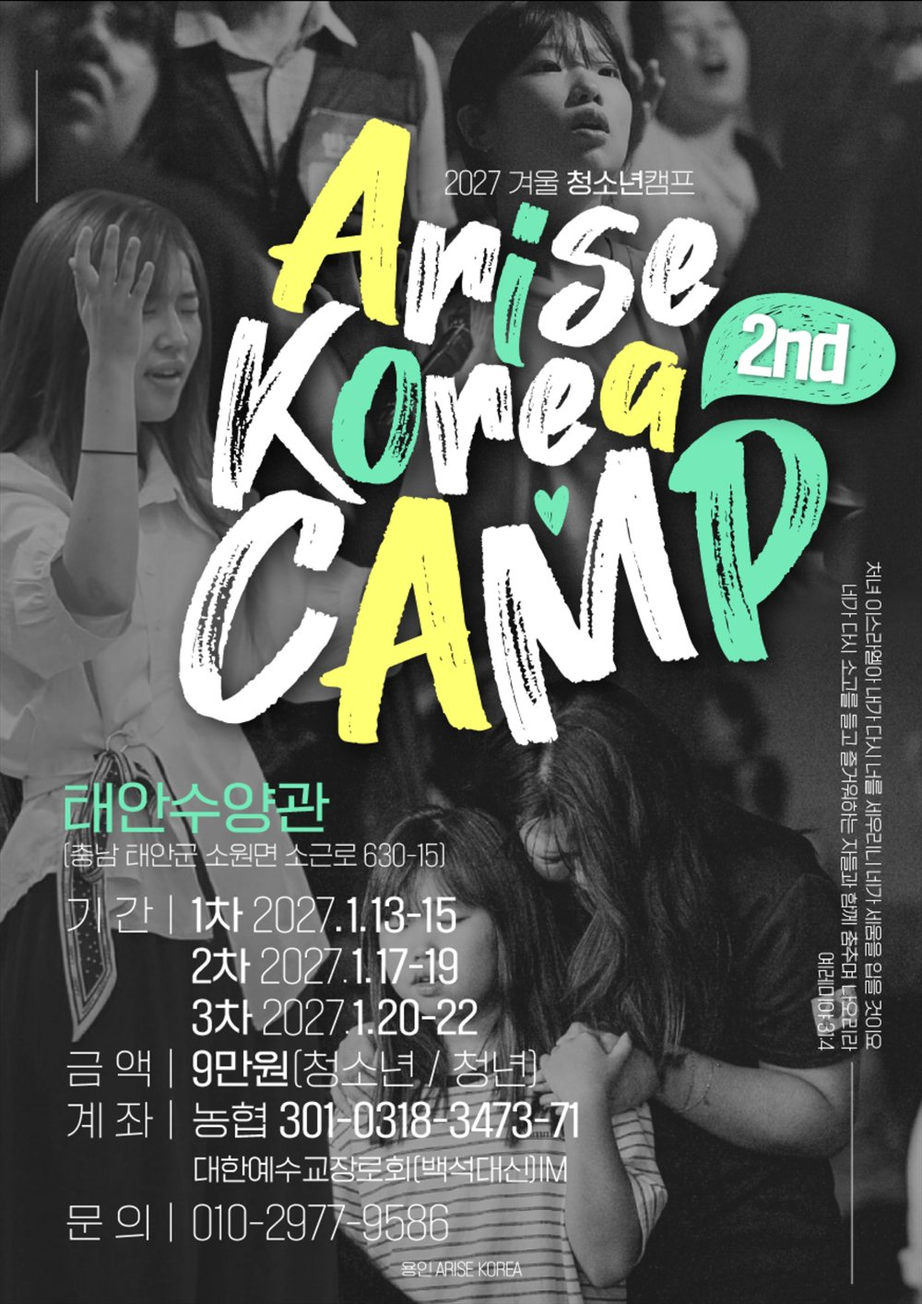
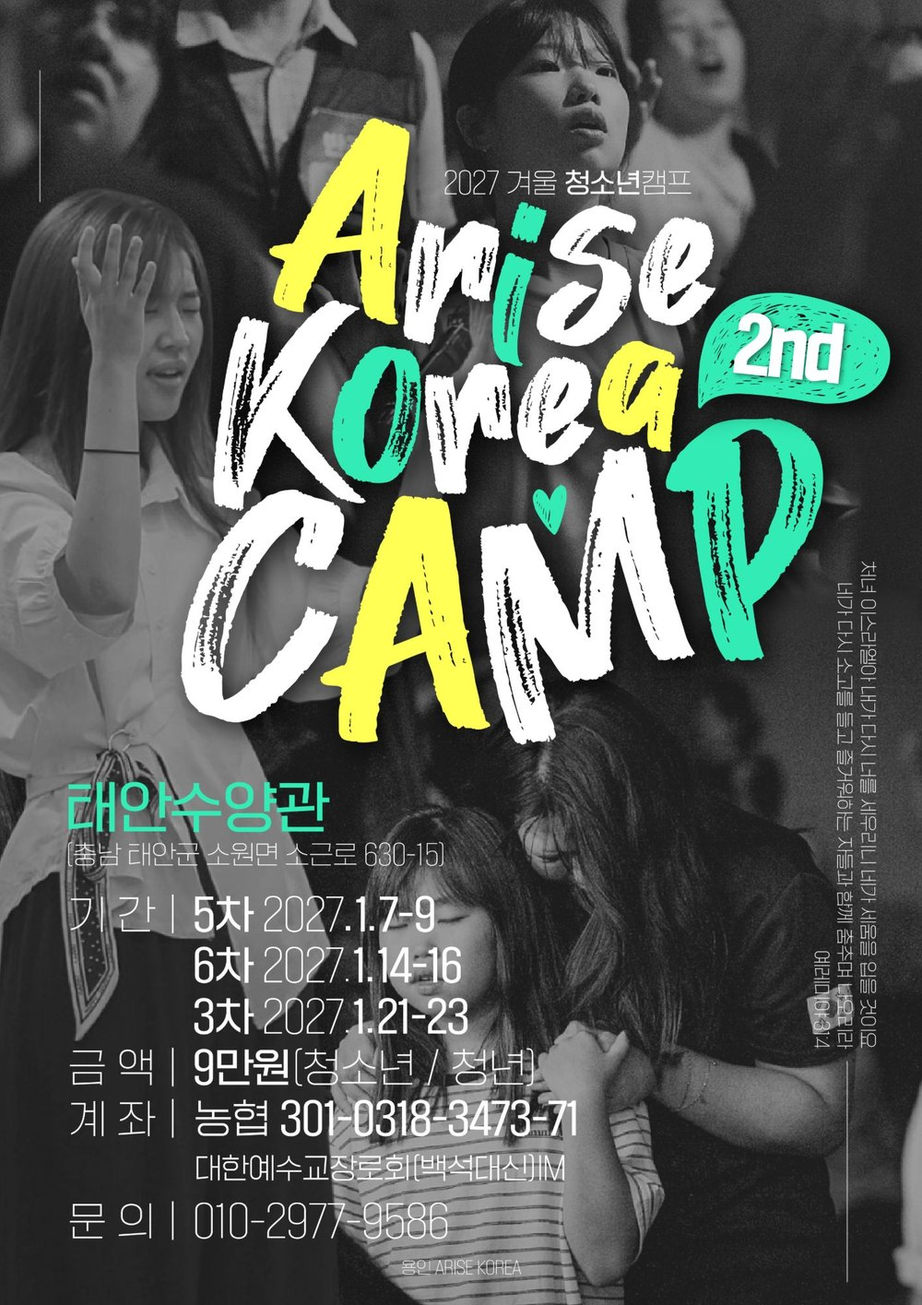
캠프 일정 변경 + 메인 프로그램 3가지 변경 반영
- 일정 변경: 5차 1. 7~9 · 6차 1. 14~16 · 7차 1. 21~23 (모두 목~토)
  - 메인 · 캠프 페이지 4곳 · 공지 · 자주 묻는 질문 · 오시는 길 · 안내 문서의
    날짜와 요일 45곳 수정
  - 5~7차 포스터를 새 일정 포스터로 교체
  - 공지 · 소식에 '일정 변경 안내' 공지 추가 (변경 전 날짜 함께 표기)
- 메인 프로그램: 연합 예배 · 부스형 프로그램 · 스마트처치 →
  슈치(스마트처치) · 컬처 리빌딩 · 뜨거운 집회 REBUILD NIGHT
  - 캠프 대표 프로그램 · 청소년 캠프 · 청년 캠프 페이지 카드 교체
  - 캠프 대표 프로그램에 '컬처 리빌딩' 소개 구역 추가 (뜻 · 활동 5가지 ·
    팀 대항 미션 레이스 · 말씀 퍼즐 · 둘째 날 오전 10시~오후 3시)
  - 일정표 글 버전에 컬처 리빌딩 시간 표기
  - 사진 이름표 '부스 프로그램' → '부스 활동'

Claude-Session: https://claude.ai/code/session_016esZXuZiwGRa3kj3D4cF44

diff --git a/about-program.html b/about-program.html
@@ -4,12 +4,12 @@
 <meta charset="UTF-8">
 <meta name="viewport" content="width=device-width, initial-scale=1">
 <title>캠프 대표 프로그램 | AKC · Arise Korea Camp</title>
-<meta name="description" content="AKC 캠프의 3가지 시그니처 - 연합 예배, 부스형 프로그램, 스마트처치.">
+<meta name="description" content="AKC 캠프의 3가지 메인 프로그램 - 슈치(스마트처치), 컬처 리빌딩, 뜨거운 집회 REBUILD NIGHT.">
 <meta property="og:type" content="website">
 <meta property="og:site_name" content="AKC · Arise Korea Camp">
 <meta property="og:locale" content="ko_KR">
 <meta property="og:title" content="캠프 대표 프로그램 | AKC · Arise Korea Camp">
-<meta property="og:description" content="AKC 캠프의 3가지 시그니처 - 연합 예배, 부스형 프로그램, 스마트처치.">
+<meta property="og:description" content="AKC 캠프의 3가지 메인 프로그램 - 슈치(스마트처치), 컬처 리빌딩, 뜨거운 집회 REBUILD NIGHT.">
 <meta property="og:url" content="https://intoedu.github.io/AKC/about-program">
 <meta property="og:image" content="https://intoedu.github.io/AKC/assets/img/og.png?v=2">
 <meta property="og:image:width" content="1200">
@@ -17,7 +17,7 @@
 <meta property="og:image:alt" content="Arise Korea Camp · 캠프보다 캠프 이후가 더 뜨거운 캠프">
 <meta name="twitter:card" content="summary_large_image">
 <meta name="twitter:title" content="캠프 대표 프로그램 | AKC · Arise Korea Camp">
-<meta name="twitter:description" content="AKC 캠프의 3가지 시그니처 - 연합 예배, 부스형 프로그램, 스마트처치.">
+<meta name="twitter:description" content="AKC 캠프의 3가지 메인 프로그램 - 슈치(스마트처치), 컬처 리빌딩, 뜨거운 집회 REBUILD NIGHT.">
 <meta name="twitter:image" content="https://intoedu.github.io/AKC/assets/img/og.png?v=2">
 <link rel="icon" href="assets/img/favicon.png">
 <link rel="apple-touch-icon" href="assets/img/favicon.png">
@@ -50,23 +50,25 @@
       </div>
       <div class="grid g3">
         <div class="card rv">
-          <figure class="card-photo"><img src="assets/img/site/sig-worship.jpg" alt="" loading="lazy"></figure>
+          <figure class="card-photo"><img src="assets/img/site/sig-smart.jpg" alt="참가자들이 노트북과 휴대폰으로 함께 공부하는 모습" loading="lazy"></figure>
           <span class="num">SIGNATURE 01</span>
-          <h3>연합 예배</h3>
-          <p>여러 교회가 한자리에서 함께 드리는 저녁 예배. 캠프의 중심이자 가장 뜨거운 시간입니다.</p>
+          <h3>슈치 (스마트처치)</h3>
+          <p>단순한 말씀묵상과 일정관리 앱이 아닙니다. 신앙 안에서 일상을 나누고 소통하는 크리스천 SNS로, 세상의 콘텐츠에 쉽게 노출되는 다음세대를 지키고 건강한 신앙 문화를 함께 만들어 갑니다. 캠프가 끝난 뒤에도 신앙생활이 이어집니다.</p>
+          <div class="more"><a href="#smartchurch">슈치 자세히 보기 ↓</a></div>
         </div>
         <div class="card rv">
-          <figure class="card-photo"><img src="assets/img/site/sig-booth.jpg" alt="" loading="lazy"></figure>
+          <figure class="card-photo"><img src="assets/img/site/sig-booth.jpg" alt="부스 활동에서 그린 그림을 들고 웃는 참가자" loading="lazy"></figure>
           <span class="num">SIGNATURE 02</span>
-          <h3>부스형 프로그램</h3>
-          <p>앉아서 듣기만 하는 집회가 아닙니다. 직접 고르고 들어가 몸으로 참여하는 체험형 부스로, 처음 온 사람도 자연스럽게 어울립니다.</p>
+          <h3>컬처 리빌딩</h3>
+          <p>부스 활동, 팀빌딩, 미션 수행, 레크레이션, 복음 방탈출까지 팀이 함께 협력하며 완수해 가는 활동입니다. 세상의 문화를 그대로 따라가는 대신, 복음 안에서 안전하게 어울리고 협력하는 법을 몸으로 배우며 그 속에 담긴 하나님의 메시지를 함께 발견합니다.</p>
+          <div class="more"><a href="#culture-rebuilding">컬처 리빌딩 자세히 보기 ↓</a></div>
         </div>
         <div class="card rv">
-          <figure class="card-photo"><img src="assets/img/site/sig-smart.jpg" alt="" loading="lazy"></figure>
+          <figure class="card-photo"><img src="assets/img/site/sig-worship.jpg" alt="저녁 집회에서 함께 찬양하는 참가자들" loading="lazy"></figure>
           <span class="num">SIGNATURE 03</span>
-          <h3>스마트처치</h3>
-          <p>신앙관리 앱과 연동되는 캠프. 2박 3일이 끝난 뒤에도 말씀, 기도와 생활, 공동체를 일상에서 이어갑니다.</p>
-          <div class="more"><a href="#smartchurch">스마트처치 자세히 보기 ↓</a></div>
+          <h3>뜨거운 집회 <em class="en">REBUILD NIGHT</em></h3>
+          <p>뜨거운 예배와 찬양 속에서 은혜를 경험하고, 삶의 방향과 비전이 새롭게 세워지는 시간입니다. 다음세대가 다시 살아나기를 원하는 마음이 이 집회 가운데 고스란히 담겨 있습니다.</p>
+          <div class="more"><a href="camp-spirit-union#timetable">2박 3일 일정표 보기 →</a></div>
         </div>
       </div>
     </div>
@@ -76,7 +78,7 @@
   <section class="sec alt" id="smartchurch">
     <div class="wrap">
       <div class="sec-head rv">
-        <span class="tag">Signature 03 · Smart Church</span>
+        <span class="tag">Signature 01 · Smart Church</span>
         <h2>캠프의 은혜를 일상으로 잇는 스마트처치</h2>
         <p>캠프는 3일이지만, 신앙은 매일입니다. AKC의 스마트처치는 <b class="hl">syuchi(슈치)</b> 앱으로 함께합니다.
         캠프에서 나눈 조가 앱 안에서 그대로 이어지고, 캠프가 끝나도 같은 앱에서 묵상과 기도를 이어 갑니다.</p>
@@ -103,6 +105,33 @@
       </div>
       <div class="hero-btns rv">
         <a class="btn btn-o" href="https://syuchi.com/ko" target="_blank" rel="noopener">syuchi 자세히 보기 ↗</a>
+      </div>
+    </div>
+  </section>
+
+  <!-- 컬처 리빌딩 - 2027 겨울 5~7차 기준 (세부 타임테이블 · 방탈출 스토리는 확정되면 추가) -->
+  <section class="sec" id="culture-rebuilding">
+    <div class="wrap">
+      <div class="sec-head rv">
+        <span class="tag">Signature 02 · Culture Rebuilding</span>
+        <h2>하나님나라의 문화를 <em>REBUILD!</em></h2>
+        <p>컬처 리빌딩은 &lsquo;문화를 다시 세우다&rsquo;라는 뜻으로, 캠프 주제 <b class="hl">REBUILD</b>와 이어지는 활동입니다.
+        게임과 노래방 같은 또래 문화를 그대로 따라가는 대신, 복음이라는 안전한 울타리 안에서 함께 협력하고 활동하며
+        각 활동 속에 숨겨진 복음의 메시지를 발견합니다.</p>
+      </div>
+      <ul class="chips rv" aria-label="컬처 리빌딩 활동">
+        <li>부스 활동</li><li>팀빌딩</li><li>미션 수행</li><li>레크레이션</li><li>복음 방탈출</li>
+      </ul>
+      <div class="grid g3">
+        <div class="card rv"><div class="ico">01</div><h3>팀 대항 미션 레이스</h3><p>팀별로 미션을 수행해 점수를 모읍니다. 정해진 시간 안에 가장 높은 점수를 얻은 팀이 우승합니다.</p></div>
+        <div class="card rv"><div class="ico">02</div><h3>슈치 미션 · 부스 미션</h3><p>슈치 앱으로 받은 미션은 팀이 스스로 수행하고, 부스 미션은 스태프가 진행하는 스테이션에서 함께 풉니다.</p></div>
+        <div class="card rv"><div class="ico">03</div><h3>말씀 퍼즐</h3><p>미션을 마칠 때마다 말씀 구절 퍼즐 조각을 얻습니다. 저녁 REBUILD NIGHT에서 팀별로 모은 조각을 맞춰 하나의 말씀을 완성합니다.</p></div>
+      </div>
+      <div class="tbl-wrap rv" style="margin-top:26px">
+        <table class="tbl">
+          <tr><th>시간</th><td>둘째 날 오전 10시 ~ 오후 3시</td></tr>
+          <tr><th>진행</th><td>5 · 6 · 7차 모두 같은 구성으로 진행합니다</td></tr>
+        </table>
       </div>
     </div>
   </section>

diff --git a/gallery.html b/gallery.html
@@ -4,12 +4,12 @@
 <meta charset="UTF-8">
 <meta name="viewport" content="width=device-width, initial-scale=1">
 <title>갤러리 | AKC · Arise Korea Camp</title>
-<meta name="description" content="AKC 캠프 현장 사진 갤러리. 예배, 말씀, 부스 프로그램, 야외 활동, 기도, 조별 나눔, 레크레이션 등 캠프의 순간들.">
+<meta name="description" content="AKC 캠프 현장 사진 갤러리. 예배, 말씀, 부스 활동, 야외 활동, 기도, 조별 나눔, 레크레이션 등 캠프의 순간들.">
 <meta property="og:type" content="website">
 <meta property="og:site_name" content="AKC · Arise Korea Camp">
 <meta property="og:locale" content="ko_KR">
 <meta property="og:title" content="갤러리 | AKC · Arise Korea Camp">
-<meta property="og:description" content="AKC 캠프 현장 사진 갤러리. 예배, 말씀, 부스 프로그램, 야외 활동, 기도, 조별 나눔, 레크레이션 등 캠프의 순간들.">
+<meta property="og:description" content="AKC 캠프 현장 사진 갤러리. 예배, 말씀, 부스 활동, 야외 활동, 기도, 조별 나눔, 레크레이션 등 캠프의 순간들.">
 <meta property="og:url" content="https://intoedu.github.io/AKC/gallery">
 <meta property="og:image" content="https://intoedu.github.io/AKC/assets/img/og.png?v=2">
 <meta property="og:image:width" content="1200">
@@ -17,7 +17,7 @@
 <meta property="og:image:alt" content="Arise Korea Camp · 캠프보다 캠프 이후가 더 뜨거운 캠프">
 <meta name="twitter:card" content="summary_large_image">
 <meta name="twitter:title" content="갤러리 | AKC · Arise Korea Camp">
-<meta name="twitter:description" content="AKC 캠프 현장 사진 갤러리. 예배, 말씀, 부스 프로그램, 야외 활동, 기도, 조별 나눔, 레크레이션 등 캠프의 순간들.">
+<meta name="twitter:description" content="AKC 캠프 현장 사진 갤러리. 예배, 말씀, 부스 활동, 야외 활동, 기도, 조별 나눔, 레크레이션 등 캠프의 순간들.">
 <meta name="twitter:image" content="https://intoedu.github.io/AKC/assets/img/og.png?v=2">
 <link rel="icon" href="assets/img/favicon.png">
 <link rel="apple-touch-icon" href="assets/img/favicon.png">
@@ -49,8 +49,8 @@
       <div class="gal">
         <figure class="rv" data-full="assets/img/gallery/worship-1200.jpg"><img src="assets/img/gallery/worship-600.jpg" srcset="assets/img/gallery/worship-600.jpg 600w, assets/img/gallery/worship-1200.jpg 1200w" sizes="(max-width: 640px) 100vw, (max-width: 960px) 50vw, 380px" alt="AKC 캠프 예배 시간" loading="lazy"><span class="zoom-ico" aria-hidden="true">⤢</span><figcaption>예배</figcaption></figure>
         <figure class="rv" data-full="assets/img/gallery/word-1200.jpg"><img src="assets/img/gallery/word-600.jpg" srcset="assets/img/gallery/word-600.jpg 600w, assets/img/gallery/word-1200.jpg 1200w" sizes="(max-width: 640px) 100vw, (max-width: 960px) 50vw, 380px" alt="AKC 캠프 말씀 시간" loading="lazy"><span class="zoom-ico" aria-hidden="true">⤢</span><figcaption>말씀</figcaption></figure>
-        <figure class="rv tall" data-full="assets/img/gallery/booth1-1200.jpg"><img src="assets/img/gallery/booth1-600.jpg" srcset="assets/img/gallery/booth1-600.jpg 600w, assets/img/gallery/booth1-1200.jpg 1200w" sizes="(max-width: 640px) 100vw, (max-width: 960px) 50vw, 380px" alt="AKC 캠프 부스 프로그램 시간" loading="lazy"><span class="zoom-ico" aria-hidden="true">⤢</span><figcaption>부스 프로그램</figcaption></figure>
-        <figure class="rv" data-full="assets/img/gallery/booth2-1200.jpg"><img src="assets/img/gallery/booth2-600.jpg" srcset="assets/img/gallery/booth2-600.jpg 600w, assets/img/gallery/booth2-1200.jpg 1200w" sizes="(max-width: 640px) 100vw, (max-width: 960px) 50vw, 380px" alt="AKC 캠프 부스 프로그램 시간" loading="lazy"><span class="zoom-ico" aria-hidden="true">⤢</span><figcaption>부스 프로그램</figcaption></figure>
+        <figure class="rv tall" data-full="assets/img/gallery/booth1-1200.jpg"><img src="assets/img/gallery/booth1-600.jpg" srcset="assets/img/gallery/booth1-600.jpg 600w, assets/img/gallery/booth1-1200.jpg 1200w" sizes="(max-width: 640px) 100vw, (max-width: 960px) 50vw, 380px" alt="AKC 캠프 부스 활동 시간" loading="lazy"><span class="zoom-ico" aria-hidden="true">⤢</span><figcaption>부스 활동</figcaption></figure>
+        <figure class="rv" data-full="assets/img/gallery/booth2-1200.jpg"><img src="assets/img/gallery/booth2-600.jpg" srcset="assets/img/gallery/booth2-600.jpg 600w, assets/img/gallery/booth2-1200.jpg 1200w" sizes="(max-width: 640px) 100vw, (max-width: 960px) 50vw, 380px" alt="AKC 캠프 부스 활동 시간" loading="lazy"><span class="zoom-ico" aria-hidden="true">⤢</span><figcaption>부스 활동</figcaption></figure>
         <figure class="rv" data-full="assets/img/gallery/outdoor1-1200.jpg"><img src="assets/img/gallery/outdoor1-600.jpg" srcset="assets/img/gallery/outdoor1-600.jpg 600w, assets/img/gallery/outdoor1-1200.jpg 1200w" sizes="(max-width: 640px) 100vw, (max-width: 960px) 50vw, 380px" alt="AKC 캠프 야외 활동 시간" loading="lazy"><span class="zoom-ico" aria-hidden="true">⤢</span><figcaption>야외 활동</figcaption></figure>
         <figure class="rv" data-full="assets/img/gallery/outdoor2-1200.jpg"><img src="assets/img/gallery/outdoor2-600.jpg" srcset="assets/img/gallery/outdoor2-600.jpg 600w, assets/img/gallery/outdoor2-1200.jpg 1200w" sizes="(max-width: 640px) 100vw, (max-width: 960px) 50vw, 380px" alt="AKC 캠프 야외 활동 시간" loading="lazy"><span class="zoom-ico" aria-hidden="true">⤢</span><figcaption>야외 활동</figcaption></figure>
         <figure class="rv" data-full="assets/img/gallery/prayer-1200.jpg"><img src="assets/img/gallery/prayer-600.jpg" srcset="assets/img/gallery/prayer-600.jpg 600w, assets/img/gallery/prayer-1200.jpg 1200w" sizes="(max-width: 640px) 100vw, (max-width: 960px) 50vw, 380px" alt="AKC 캠프 기도 시간" loading="lazy"><span class="zoom-ico" aria-hidden="true">⤢</span><figcaption>기도</figcaption></figure>

diff --git a/camp-spirit-union.html b/camp-spirit-union.html
@@ -4,12 +4,12 @@
 <meta charset="UTF-8">
 <meta name="viewport" content="width=device-width, initial-scale=1">
 <title>연합 캠프 | AKC · Arise Korea Camp</title>
-<meta name="description" content="2027년 겨울 AKC 연합 청소년·청년 캠프. 5차 1/13~15, 6차 1/17~19, 7차 1/20~22, 태안수양관(충남 태안군 소원면 소근로 630-15).">
+<meta name="description" content="2027년 겨울 AKC 연합 청소년·청년 캠프. 5차 1/7~9, 6차 1/14~16, 7차 1/21~23, 태안수양관(충남 태안군 소원면 소근로 630-15).">
 <meta property="og:type" content="website">
 <meta property="og:site_name" content="AKC · Arise Korea Camp">
 <meta property="og:locale" content="ko_KR">
 <meta property="og:title" content="연합 캠프 | AKC · Arise Korea Camp">
-<meta property="og:description" content="2027년 겨울 AKC 연합 청소년·청년 캠프. 5차 1/13~15, 6차 1/17~19, 7차 1/20~22, 태안수양관(충남 태안군 소원면 소근로 630-15).">
+<meta property="og:description" content="2027년 겨울 AKC 연합 청소년·청년 캠프. 5차 1/7~9, 6차 1/14~16, 7차 1/21~23, 태안수양관(충남 태안군 소원면 소근로 630-15).">
 <meta property="og:url" content="https://intoedu.github.io/AKC/camp-spirit-union">
 <meta property="og:image" content="https://intoedu.github.io/AKC/assets/img/og.png?v=2">
 <meta property="og:image:width" content="1200">
@@ -17,7 +17,7 @@
 <meta property="og:image:alt" content="Arise Korea Camp · 캠프보다 캠프 이후가 더 뜨거운 캠프">
 <meta name="twitter:card" content="summary_large_image">
 <meta name="twitter:title" content="연합 캠프 | AKC · Arise Korea Camp">
-<meta name="twitter:description" content="2027년 겨울 AKC 연합 청소년·청년 캠프. 5차 1/13~15, 6차 1/17~19, 7차 1/20~22, 태안수양관(충남 태안군 소원면 소근로 630-15).">
+<meta name="twitter:description" content="2027년 겨울 AKC 연합 청소년·청년 캠프. 5차 1/7~9, 6차 1/14~16, 7차 1/21~23, 태안수양관(충남 태안군 소원면 소근로 630-15).">
 <meta name="twitter:image" content="https://intoedu.github.io/AKC/assets/img/og.png?v=2">
 <link rel="icon" href="assets/img/favicon.png">
 <link rel="apple-touch-icon" href="assets/img/favicon.png">
@@ -50,9 +50,9 @@
         <p>세 차수 모두 같은 내용으로 진행되니 원하는 날짜를 선택해 신청하세요.</p>
       </div>
       <div class="sched">
-        <div class="it rv"><span class="no">5차</span><div class="dt">2027. 1. 13 ~ 15</div><div class="dw">수요일 → 금요일 · 2박 3일</div></div>
-        <div class="it rv"><span class="no">6차</span><div class="dt">2027. 1. 17 ~ 19</div><div class="dw">일요일 → 화요일 · 2박 3일</div></div>
-        <div class="it rv"><span class="no">7차</span><div class="dt">2027. 1. 20 ~ 22</div><div class="dw">수요일 → 금요일 · 2박 3일</div></div>
+        <div class="it rv"><span class="no">5차</span><div class="dt">2027. 1. 7 ~ 9</div><div class="dw">목요일 → 토요일 · 2박 3일</div></div>
+        <div class="it rv"><span class="no">6차</span><div class="dt">2027. 1. 14 ~ 16</div><div class="dw">목요일 → 토요일 · 2박 3일</div></div>
+        <div class="it rv"><span class="no">7차</span><div class="dt">2027. 1. 21 ~ 23</div><div class="dw">목요일 → 토요일 · 2박 3일</div></div>
       </div>
       <div class="tbl-wrap rv" style="margin-top:26px">
         <table class="tbl">
@@ -101,7 +101,7 @@
             <h3><span>DAY 2</span>둘째 날</h3>
             <ul>
               <li><b>팀별 아침묵상</b> <small>with 슈치</small></li>
-              <li><b>컬처 리빌딩</b> <small>하나님나라의 문화를 REBUILD!</small></li>
+              <li><span class="tm">오전 10시 ~ 오후 3시</span><b><a href="about-program#culture-rebuilding">컬처 리빌딩</a></b> <small>하나님나라의 문화를 REBUILD!</small></li>
               <li><b>뜨거운 기도회</b></li>
               <li class="k"><b>AKC 둘째날 저녁집회</b> <small>REBUILD NIGHT</small></li>
               <li><b>캠프파이어</b></li>
@@ -150,7 +150,7 @@
         </figure>
         <div class="past-shots">
           <figure class="rv" data-full="assets/img/gallery/praise-1200.jpg"><img src="assets/img/gallery/praise-600.jpg" srcset="assets/img/gallery/praise-600.jpg 600w, assets/img/gallery/praise-1200.jpg 1200w" sizes="(max-width: 640px) 50vw, 420px" alt="지난 캠프 예배 시간" loading="lazy"><figcaption>예배</figcaption></figure>
-          <figure class="rv" data-full="assets/img/gallery/booth2-1200.jpg"><img src="assets/img/gallery/booth2-600.jpg" srcset="assets/img/gallery/booth2-600.jpg 600w, assets/img/gallery/booth2-1200.jpg 1200w" sizes="(max-width: 640px) 50vw, 420px" alt="지난 캠프 부스 프로그램 시간" loading="lazy"><figcaption>부스 프로그램</figcaption></figure>
+          <figure class="rv" data-full="assets/img/gallery/booth2-1200.jpg"><img src="assets/img/gallery/booth2-600.jpg" srcset="assets/img/gallery/booth2-600.jpg 600w, assets/img/gallery/booth2-1200.jpg 1200w" sizes="(max-width: 640px) 50vw, 420px" alt="지난 캠프 부스 활동 시간" loading="lazy"><figcaption>부스 활동</figcaption></figure>
           <figure class="rv" data-full="assets/img/gallery/outdoor1-1200.jpg"><img src="assets/img/gallery/outdoor1-600.jpg" srcset="assets/img/gallery/outdoor1-600.jpg 600w, assets/img/gallery/outdoor1-1200.jpg 1200w" sizes="(max-width: 640px) 50vw, 420px" alt="지난 캠프 야외 활동 시간" loading="lazy"><figcaption>야외 활동</figcaption></figure>
           <figure class="rv" data-full="assets/img/gallery/recreation-1200.jpg"><img src="assets/img/gallery/recreation-600.jpg" srcset="assets/img/gallery/recreation-600.jpg 600w, assets/img/gallery/recreation-1200.jpg 1200w" sizes="(max-width: 640px) 50vw, 420px" alt="지난 캠프 레크레이션 시간" loading="lazy"><figcaption>레크레이션</figcaption></figure>
         </div>

diff --git a/index.html b/index.html
@@ -137,9 +137,9 @@
         <p>이번 5~7차 캠프는 청소년과 청년이 함께 진행합니다. 세 차수 모두 같은 내용이니 원하는 날짜를 선택해 신청하세요.</p>
       </div>
       <div class="sched">
-        <div class="it rv"><span class="no">5차</span><div class="dt">2027. 1. 13 ~ 15</div><div class="dw">수요일 → 금요일 · 2박 3일</div></div>
-        <div class="it rv"><span class="no">6차</span><div class="dt">2027. 1. 17 ~ 19</div><div class="dw">일요일 → 화요일 · 2박 3일</div></div>
-        <div class="it rv"><span class="no">7차</span><div class="dt">2027. 1. 20 ~ 22</div><div class="dw">수요일 → 금요일 · 2박 3일</div></div>
+        <div class="it rv"><span class="no">5차</span><div class="dt">2027. 1. 7 ~ 9</div><div class="dw">목요일 → 토요일 · 2박 3일</div></div>
+        <div class="it rv"><span class="no">6차</span><div class="dt">2027. 1. 14 ~ 16</div><div class="dw">목요일 → 토요일 · 2박 3일</div></div>
+        <div class="it rv"><span class="no">7차</span><div class="dt">2027. 1. 21 ~ 23</div><div class="dw">목요일 → 토요일 · 2박 3일</div></div>
       </div>
       <div class="tbl-wrap rv" style="margin-top:26px">
         <table class="tbl">
@@ -204,12 +204,12 @@
     </div>
     <div class="hscroll rv" aria-label="캠프 사진 (옆으로 넘겨 보세요)">
         <figure class="hitem w" data-full="assets/img/gallery/worship-1200.jpg"><img src="assets/img/gallery/worship-600.jpg" srcset="assets/img/gallery/worship-600.jpg 600w, assets/img/gallery/worship-1200.jpg 1200w" sizes="(max-width: 640px) 300px, 560px" alt="AKC 캠프 예배 시간" loading="lazy" draggable="false"><figcaption>예배</figcaption></figure>
-        <figure class="hitem t" data-full="assets/img/gallery/booth1-1200.jpg"><img src="assets/img/gallery/booth1-600.jpg" srcset="assets/img/gallery/booth1-600.jpg 600w, assets/img/gallery/booth1-1200.jpg 1200w" sizes="(max-width: 640px) 300px, 560px" alt="AKC 캠프 부스 프로그램 시간" loading="lazy" draggable="false"><figcaption>부스 프로그램</figcaption></figure>
+        <figure class="hitem t" data-full="assets/img/gallery/booth1-1200.jpg"><img src="assets/img/gallery/booth1-600.jpg" srcset="assets/img/gallery/booth1-600.jpg 600w, assets/img/gallery/booth1-1200.jpg 1200w" sizes="(max-width: 640px) 300px, 560px" alt="AKC 캠프 부스 활동 시간" loading="lazy" draggable="false"><figcaption>부스 활동</figcaption></figure>
         <figure class="hitem w" data-full="assets/img/gallery/outdoor2-1200.jpg"><img src="assets/img/gallery/outdoor2-600.jpg" srcset="assets/img/gallery/outdoor2-600.jpg 600w, assets/img/gallery/outdoor2-1200.jpg 1200w" sizes="(max-width: 640px) 300px, 560px" alt="AKC 캠프 야외 활동 시간" loading="lazy" draggable="false"><figcaption>야외 활동</figcaption></figure>
         <figure class="hitem w" data-full="assets/img/gallery/word-1200.jpg"><img src="assets/img/gallery/word-600.jpg" srcset="assets/img/gallery/word-600.jpg 600w, assets/img/gallery/word-1200.jpg 1200w" sizes="(max-width: 640px) 300px, 560px" alt="AKC 캠프 말씀 시간" loading="lazy" draggable="false"><figcaption>말씀</figcaption></figure>
         <figure class="hitem w" data-full="assets/img/gallery/smallgroup-1200.jpg"><img src="assets/img/gallery/smallgroup-600.jpg" srcset="assets/img/gallery/smallgroup-600.jpg 600w, assets/img/gallery/smallgroup-1200.jpg 1200w" sizes="(max-width: 640px) 300px, 560px" alt="AKC 캠프 조별 나눔 시간" loading="lazy" draggable="false"><figcaption>조별 나눔</figcaption></figure>
         <figure class="hitem w" data-full="assets/img/gallery/prayer-1200.jpg"><img src="assets/img/gallery/prayer-600.jpg" srcset="assets/img/gallery/prayer-600.jpg 600w, assets/img/gallery/prayer-1200.jpg 1200w" sizes="(max-width: 640px) 300px, 560px" alt="AKC 캠프 기도 시간" loading="lazy" draggable="false"><figcaption>기도</figcaption></figure>
-        <figure class="hitem w" data-full="assets/img/gallery/booth2-1200.jpg"><img src="assets/img/gallery/booth2-600.jpg" srcset="assets/img/gallery/booth2-600.jpg 600w, assets/img/gallery/booth2-1200.jpg 1200w" sizes="(max-width: 640px) 300px, 560px" alt="AKC 캠프 부스 프로그램 시간" loading="lazy" draggable="false"><figcaption>부스 프로그램</figcaption></figure>
+        <figure class="hitem w" data-full="assets/img/gallery/booth2-1200.jpg"><img src="assets/img/gallery/booth2-600.jpg" srcset="assets/img/gallery/booth2-600.jpg 600w, assets/img/gallery/booth2-1200.jpg 1200w" sizes="(max-width: 640px) 300px, 560px" alt="AKC 캠프 부스 활동 시간" loading="lazy" draggable="false"><figcaption>부스 활동</figcaption></figure>
         <figure class="hitem w" data-full="assets/img/gallery/outdoor1-1200.jpg"><img src="assets/img/gallery/outdoor1-600.jpg" srcset="assets/img/gallery/outdoor1-600.jpg 600w, assets/img/gallery/outdoor1-1200.jpg 1200w" sizes="(max-width: 640px) 300px, 560px" alt="AKC 캠프 야외 활동 시간" loading="lazy" draggable="false"><figcaption>야외 활동</figcaption></figure>
         <figure class="hitem w" data-full="assets/img/gallery/recreation-1200.jpg"><img src="assets/img/gallery/recreation-600.jpg" srcset="assets/img/gallery/recreation-600.jpg 600w, assets/img/gallery/recreation-1200.jpg 1200w" sizes="(max-width: 640px) 300px, 560px" alt="AKC 캠프 레크레이션 시간" loading="lazy" draggable="false"><figcaption>레크레이션</figcaption></figure>
     </div>

diff --git a/camp-spirit-youth.html b/camp-spirit-youth.html
@@ -60,7 +60,7 @@
         <div class="tbl-wrap rv">
           <table class="tbl">
             <tr><th>대상</th><td>중학교 1학년 ~ 고등학교 3학년</td></tr>
-            <tr><th>일정</th><td>5차 1.13~15 · 6차 1.17~19 · 7차 1.20~22 (각 2박 3일)</td></tr>
+            <tr><th>일정</th><td>5차 1.7~9 · 6차 1.14~16 · 7차 1.21~23 (각 2박 3일)</td></tr>
             <tr><th>신청 기간</th><td>2026. 9. 18(금) 오전 8시 ~ 12. 28(월)</td></tr>
             <tr><th>장소</th><td>태안수양관 (AKC 자체 운영 시설)</td></tr>
             <tr><th>참가비</th><td>90,000원</td></tr>
@@ -79,9 +79,9 @@
         <h2>청소년 캠프의 시간들</h2>
       </div>
       <div class="grid g3">
-        <div class="card rv"><div class="ico">♪</div><h3>연합 예배</h3><p>여러 교회가 한자리에서 함께 드리는 저녁 예배. 캠프의 중심이자 가장 뜨거운 시간입니다.</p></div>
-        <div class="card rv"><div class="ico">▣</div><h3>부스형 프로그램</h3><p>앉아서 듣기만 하는 집회가 아닙니다. 직접 고르고 들어가 몸으로 참여하는 체험형 부스로, 처음 온 사람도 자연스럽게 어울립니다.</p></div>
-        <div class="card rv"><div class="ico">↻</div><h3>스마트처치</h3><p>신앙관리 앱과 연동되는 캠프. 2박 3일이 끝난 뒤에도 말씀, 기도와 생활, 공동체를 일상에서 이어갑니다.</p></div>
+        <a class="card rv" href="about-program#smartchurch"><div class="ico">↻</div><h3>슈치 (스마트처치)</h3><p>말씀묵상을 넘어 신앙 안에서 일상을 나누는 크리스천 SNS. 캠프가 끝난 뒤에도 신앙생활이 이어집니다.</p><div class="more">자세히 보기 →</div></a>
+        <a class="card rv" href="about-program#culture-rebuilding"><div class="ico">▣</div><h3>컬처 리빌딩</h3><p>부스 활동 · 팀빌딩 · 미션 수행 · 레크레이션 · 복음 방탈출. 팀이 함께 협력하며 복음의 문화를 몸으로 배웁니다.</p><div class="more">자세히 보기 →</div></a>
+        <a class="card rv" href="camp-spirit-union#timetable"><div class="ico">♪</div><h3>뜨거운 집회 <em class="en">REBUILD NIGHT</em></h3><p>뜨거운 예배와 찬양 속에서 은혜를 경험하고, 삶의 방향과 비전이 새롭게 세워지는 저녁 집회입니다.</p><div class="more">일정표 보기 →</div></a>
       </div>
     </div>
   </section>
@@ -100,7 +100,7 @@
           <figcaption>지난 캠프 포스터 · 1~3차 영성캠프</figcaption>
         </figure>
         <div class="past-shots">
-          <figure class="rv" data-full="assets/img/gallery/booth1-1200.jpg"><img src="assets/img/gallery/booth1-600.jpg" srcset="assets/img/gallery/booth1-600.jpg 600w, assets/img/gallery/booth1-1200.jpg 1200w" sizes="(max-width: 640px) 50vw, 420px" alt="지난 캠프 부스 프로그램 시간" loading="lazy"><figcaption>부스 프로그램</figcaption></figure>
+          <figure class="rv" data-full="assets/img/gallery/booth1-1200.jpg"><img src="assets/img/gallery/booth1-600.jpg" srcset="assets/img/gallery/booth1-600.jpg 600w, assets/img/gallery/booth1-1200.jpg 1200w" sizes="(max-width: 640px) 50vw, 420px" alt="지난 캠프 부스 활동 시간" loading="lazy"><figcaption>부스 활동</figcaption></figure>
           <figure class="rv" data-full="assets/img/gallery/outdoor2-1200.jpg"><img src="assets/img/gallery/outdoor2-600.jpg" srcset="assets/img/gallery/outdoor2-600.jpg 600w, assets/img/gallery/outdoor2-1200.jpg 1200w" sizes="(max-width: 640px) 50vw, 420px" alt="지난 캠프 야외 활동 시간" loading="lazy"><figcaption>야외 활동</figcaption></figure>
           <figure class="rv" data-full="assets/img/gallery/smallgroup-1200.jpg"><img src="assets/img/gallery/smallgroup-600.jpg" srcset="assets/img/gallery/smallgroup-600.jpg 600w, assets/img/gallery/smallgroup-1200.jpg 1200w" sizes="(max-width: 640px) 50vw, 420px" alt="지난 캠프 조별 나눔 시간" loading="lazy"><figcaption>조별 나눔</figcaption></figure>
           <figure class="rv" data-full="assets/img/gallery/hero-1200.jpg"><img src="assets/img/gallery/hero-600.jpg" srcset="assets/img/gallery/hero-600.jpg 600w, assets/img/gallery/hero-1200.jpg 1200w" sizes="(max-width: 640px) 50vw, 420px" alt="지난 캠프 예배 시간" loading="lazy"><figcaption>예배</figcaption></figure>

diff --git a/news.html b/news.html
@@ -43,7 +43,26 @@
   </section>
 
   <section class="sec">
-    <div class="wrap">
+    <div class="wrap grid">
+      <!-- 일정 변경 공지 - 날짜(2026.10.01)는 실제 사이트에 올리는 날로 맞춰 주세요 -->
+      <div class="card rv" id="notice-date" style="border-color:rgba(244,224,77,.45)">
+        <span class="num">NOTICE · 2026.10.01</span>
+        <h3 style="margin-top:8px">2027 겨울 5~7차 캠프 일정 변경 안내</h3>
+        <p>2027 겨울 5~7차 캠프 일정이 아래와 같이 변경되었습니다. 신청하실 때 변경된 날짜를 꼭 확인해 주세요.</p>
+        <div class="tbl-wrap" style="margin-top:20px">
+          <table class="tbl">
+            <tr><th>5차</th><td><b class="hl">2027. 1. 7(목) ~ 9(토)</b> <span style="color:var(--muted-2)">(변경 전 1. 13 ~ 15)</span></td></tr>
+            <tr><th>6차</th><td><b class="hl">2027. 1. 14(목) ~ 16(토)</b> <span style="color:var(--muted-2)">(변경 전 1. 17 ~ 19)</span></td></tr>
+            <tr><th>7차</th><td><b class="hl">2027. 1. 21(목) ~ 23(토)</b> <span style="color:var(--muted-2)">(변경 전 1. 20 ~ 22)</span></td></tr>
+            <tr><th>문의</th><td>010-2977-9586 · AriseKoreaCamp@gmail.com</td></tr>
+          </table>
+        </div>
+        <div class="hero-btns" style="margin-top:24px">
+          <a class="btn btn-y" href="contact">신청 안내 보기</a>
+          <a class="btn btn-o" href="camp-spirit-union#timetable">2박 3일 일정표</a>
+        </div>
+      </div>
+
       <div class="card rv" id="notice" style="border-color:rgba(244,224,77,.45)">
         <span class="num">NOTICE · 2026.09.17</span>
         <h3 style="margin-top:8px">2027 겨울 5~7차 캠프 신청 기간 안내</h3>
@@ -51,7 +70,7 @@
         <div class="tbl-wrap" style="margin-top:20px">
           <table class="tbl">
             <tr><th>신청 기간</th><td><b class="hl">2026. 9. 18(금) 오전 8시</b> ~ <b class="hl">12. 28(월)</b></td></tr>
-            <tr><th>캠프 일정</th><td>5차 2027. 1. 13(수) ~ 15(금) · 6차 1. 17(일) ~ 19(화) · 7차 1. 20(수) ~ 22(금)</td></tr>
+            <tr><th>캠프 일정</th><td>5차 2027. 1. 7(목) ~ 9(토) · 6차 1. 14(목) ~ 16(토) · 7차 1. 21(목) ~ 23(토) <span style="color:var(--muted-2)">(10. 1. 일정 변경 반영)</span></td></tr>
             <tr><th>모집 인원</th><td>차수별 최대 250명</td></tr>
             <tr><th>참가비</th><td>90,000원 (청소년 · 청년 동일)</td></tr>
             <tr><th>장소</th><td>태안수양관 (충남 태안군 소원면 소근로 630-15)</td></tr>
@@ -72,6 +91,7 @@
         <h2>전체 소식</h2>
       </div>
       <ul class="nlist rv">
+        <li><a href="#notice-date"><span class="cat y">공지</span><span class="ttl">2027 겨울 5~7차 캠프 일정 변경 안내</span><span class="date">2026.10.01</span></a></li>
         <li><a href="#notice"><span class="cat y">공지</span><span class="ttl">2027 겨울 5~7차 캠프 신청 기간 안내</span><span class="date">2026.09.17</span></a></li>
       </ul>
     </div>

diff --git a/camp-spirit-young.html b/camp-spirit-young.html
@@ -60,7 +60,7 @@
         <div class="tbl-wrap rv">
           <table class="tbl">
             <tr><th>대상</th><td>대학생 · 직장인 청년</td></tr>
-            <tr><th>일정</th><td>5차 1.13~15 · 6차 1.17~19 · 7차 1.20~22 (각 2박 3일)</td></tr>
+            <tr><th>일정</th><td>5차 1.7~9 · 6차 1.14~16 · 7차 1.21~23 (각 2박 3일)</td></tr>
             <tr><th>신청 기간</th><td>2026. 9. 18(금) 오전 8시 ~ 12. 28(월)</td></tr>
             <tr><th>장소</th><td>태안수양관 (AKC 자체 운영 시설)</td></tr>
             <tr><th>참가비</th><td>90,000원</td></tr>
@@ -79,9 +79,9 @@
         <h2>청년 캠프의 시간들</h2>
       </div>
       <div class="grid g3">
-        <div class="card rv"><div class="ico">♪</div><h3>연합 예배</h3><p>여러 교회가 한자리에서 함께 드리는 저녁 예배. 캠프의 중심이자 가장 뜨거운 시간입니다.</p></div>
-        <div class="card rv"><div class="ico">▣</div><h3>부스형 프로그램</h3><p>앉아서 듣기만 하는 집회가 아닙니다. 직접 고르고 들어가 몸으로 참여하는 체험형 부스로, 처음 온 사람도 자연스럽게 어울립니다.</p></div>
-        <div class="card rv"><div class="ico">↻</div><h3>스마트처치</h3><p>신앙관리 앱과 연동되는 캠프. 2박 3일이 끝난 뒤에도 말씀, 기도와 생활, 공동체를 일상에서 이어갑니다.</p></div>
+        <a class="card rv" href="about-program#smartchurch"><div class="ico">↻</div><h3>슈치 (스마트처치)</h3><p>말씀묵상을 넘어 신앙 안에서 일상을 나누는 크리스천 SNS. 캠프가 끝난 뒤에도 신앙생활이 이어집니다.</p><div class="more">자세히 보기 →</div></a>
+        <a class="card rv" href="about-program#culture-rebuilding"><div class="ico">▣</div><h3>컬처 리빌딩</h3><p>부스 활동 · 팀빌딩 · 미션 수행 · 레크레이션 · 복음 방탈출. 팀이 함께 협력하며 복음의 문화를 몸으로 배웁니다.</p><div class="more">자세히 보기 →</div></a>
+        <a class="card rv" href="camp-spirit-union#timetable"><div class="ico">♪</div><h3>뜨거운 집회 <em class="en">REBUILD NIGHT</em></h3><p>뜨거운 예배와 찬양 속에서 은혜를 경험하고, 삶의 방향과 비전이 새롭게 세워지는 저녁 집회입니다.</p><div class="more">일정표 보기 →</div></a>
       </div>
     </div>
   </section>

diff --git a/assets/css/style.css b/assets/css/style.css
@@ -566,6 +566,16 @@ a.card.card-wide,.card.card-wide{display:grid;grid-template-columns:1.1fr 1fr;ga
   .tt-img{max-width:420px}
 }
 
+/* 활동 키워드 (컬처 리빌딩) */
+.chips{list-style:none;margin:0 0 32px;padding:0;display:flex;flex-wrap:wrap;gap:10px}
+.chips li{padding:8px 18px;border-radius:999px;border:1px solid rgba(var(--paper-rgb),.22);background:rgba(var(--paper-rgb),.04);
+  font-size:14px;font-weight:500;color:var(--text)}
+.chips li:nth-child(odd){border-color:rgba(var(--accent-hot-2-rgb),.5);color:var(--mint)}
+/* 제목 안의 영문 부제 (REBUILD NIGHT 등) */
+h3 .en{display:block;margin-top:4px;font-style:normal;font-family:var(--f-body);font-size:13px;font-weight:700;letter-spacing:3px;color:var(--yellow)}
+.tt-day li b a{border-bottom:1px solid rgba(var(--paper-rgb),.3)}
+.tt-day li b a:hover{color:var(--yellow);border-color:var(--yellow)}
+
 /* footer */
 .ftr{padding:72px 0 0;background:var(--bg);border-top:1px solid var(--line-2);font-size:14px;color:var(--muted-2)}
 .ftr-top{display:grid;grid-template-columns:1.5fr 1fr 1fr 1.3fr;gap:44px;margin-bottom:56px}

diff --git a/location.html b/location.html
@@ -67,7 +67,7 @@
       <div class="tbl-wrap rv" style="margin-top:26px">
         <table class="tbl">
           <tr><th>주소</th><td>충남 태안군 소원면 소근로 630-15 (태안수양관)</td></tr>
-          <tr><th>캠프 일정</th><td>5차 2027. 1. 13 ~ 15 / 6차 1. 17 ~ 19 / 7차 1. 20 ~ 22 (각 2박 3일)</td></tr>
+          <tr><th>캠프 일정</th><td>5차 2027. 1. 7 ~ 9 / 6차 1. 14 ~ 16 / 7차 1. 21 ~ 23 (각 2박 3일)</td></tr>
           <tr><th>대표 연락처</th><td><a href="tel:01029779586" class="hl">010-2977-9586</a></td></tr>
           <tr><th>이메일</th><td><a href="mailto:AriseKoreaCamp@gmail.com" class="hl">AriseKoreaCamp@gmail.com</a></td></tr>
           <tr><th>시설</th><td>AKC 자체 운영 수양 시설 · 도심을 떠나 예배와 나눔, 쉼에 집중할 수 있는 공간</td></tr>

diff --git a/faq.html b/faq.html
@@ -57,7 +57,7 @@
         </details>
         <details>
           <summary>2027 겨울 캠프 일정과 장소를 알려 주세요.</summary>
-          <div class="ans">5차 2027. 1. 13(수) ~ 15(금) / 6차 2027. 1. 17(일) ~ 19(화) / 7차 2027. 1. 20(수) ~ 22(금)이며,
+          <div class="ans">5차 2027. 1. 7(목) ~ 9(토) / 6차 2027. 1. 14(목) ~ 16(토) / 7차 2027. 1. 21(목) ~ 23(토)이며,
           장소는 <b>태안수양관 (충남 태안군 소원면 소근로 630-15)</b>입니다.
           세 차수 모두 2박 3일, 같은 내용으로 진행되니 원하는 날짜를 선택해 신청하세요. 모집 인원은 차수별 최대 250명입니다.
           2박 3일 세부 일정은 <a href="camp-spirit-union#timetable" class="hl">연합 캠프 일정표</a>에서 확인할 수 있습니다.</div>

diff --git a/camp-spirit.html b/camp-spirit.html
@@ -118,7 +118,7 @@
   <section class="band">
     <div class="wrap">
       <h2 class="rv">2027 겨울 5~7차 캠프 신청 안내</h2>
-      <p class="rv">5차 1/13~15 · 6차 1/17~19 · 7차 1/20~22 · 신청 기간 2026. 9. 18(금) 오전 8시 ~ 12. 28(월)</p>
+      <p class="rv">5차 1/7~9 · 6차 1/14~16 · 7차 1/21~23 · 신청 기간 2026. 9. 18(금) 오전 8시 ~ 12. 28(월)</p>
       <div class="hero-btns rv">
         <a class="btn btn-y" href="contact">신청서 작성하기</a>
         <a class="btn btn-o" href="camp-spirit-union">연합 캠프 상세</a>
